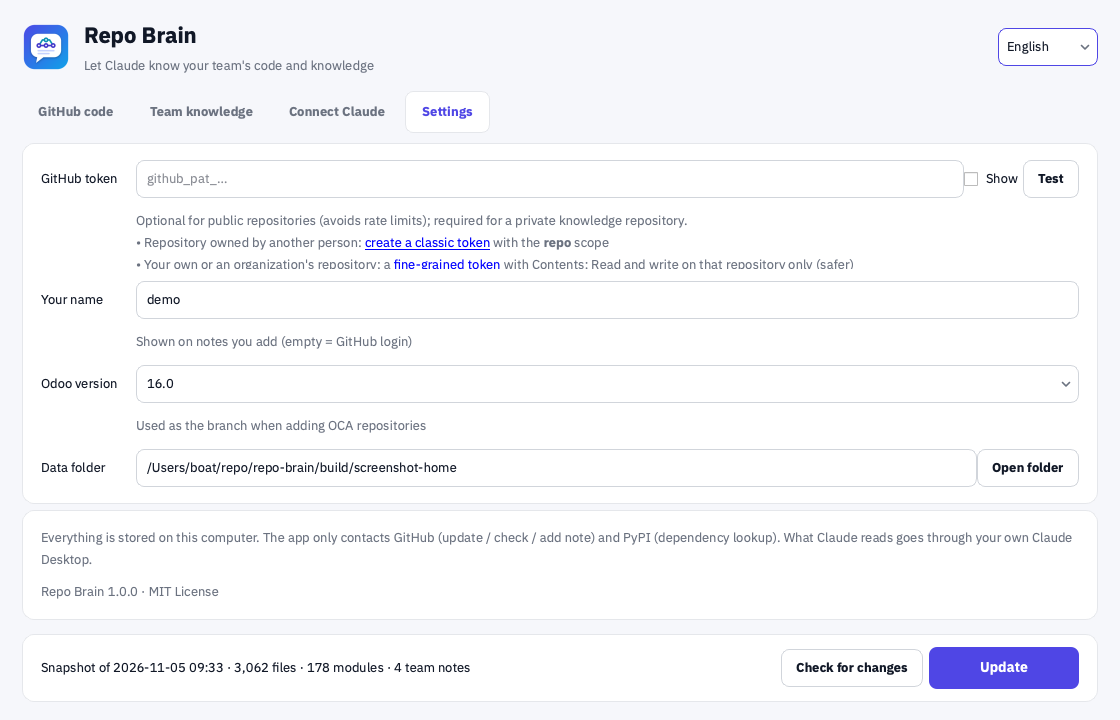
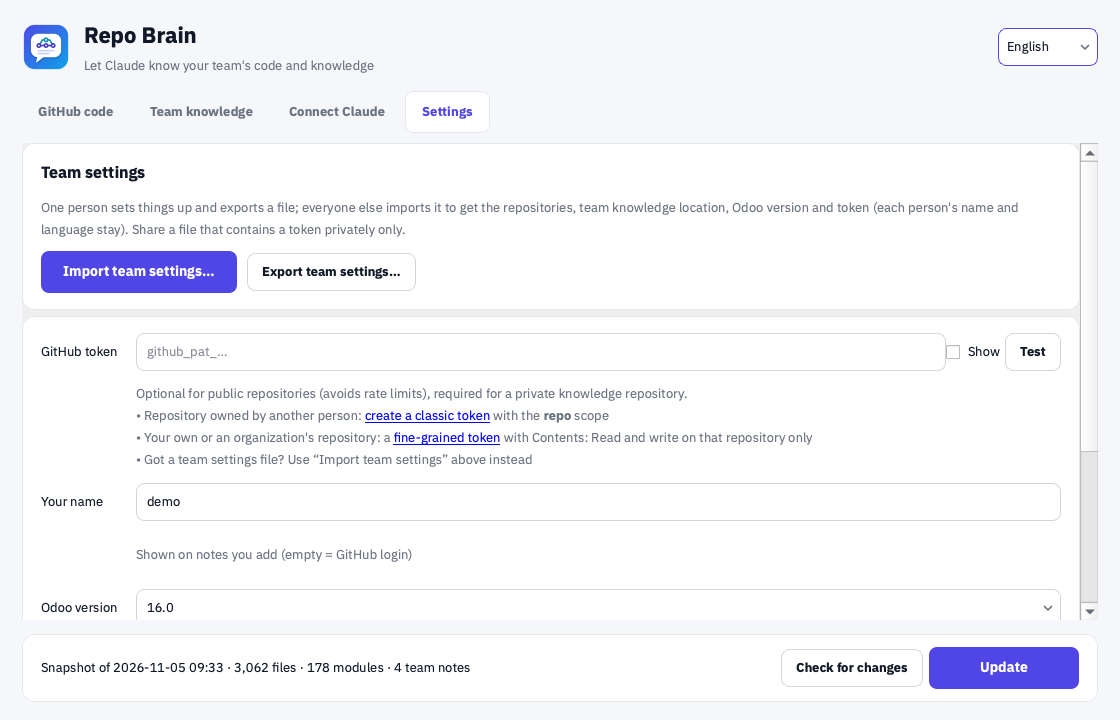
Add team settings export and import

Changed region(s): [[0.0312, 0.2139, 0.9688, 0.7028], [0.0312, 0.6111, 1.0, 0.8556], [0.0312, 0.6417, 0.0938, 0.7028]]

diff --git a/app/i18n.py b/app/i18n.py
@@ -117,14 +117,14 @@ T = {
                     "<li>Remember for the team: year-end closing must be done before 30 Sep.</li></ul>"),
     # settings
     "st_token": ("GitHub token", "GitHub token"),
-    "st_token_hint": ("ไม่บังคับสำหรับ repo public (แต่ช่วยไม่ให้ติด rate limit) จำเป็นสำหรับ repo ข้อมูลทีมแบบ private<br>"
+    "st_token_hint": ("ไม่บังคับสำหรับ repo public (ช่วยไม่ให้ติด rate limit) แต่จำเป็นสำหรับ repo ข้อมูลทีมแบบ private<br>"
                       "• repo ของบัญชีคนอื่น: <a href='https://github.com/settings/tokens/new?scopes=repo&description=Repo%20Brain'>สร้าง classic token</a> สิทธิ์ <b>repo</b><br>"
                       "• repo ของคุณเองหรือของ organization: <a href='https://github.com/settings/personal-access-tokens/new'>fine-grained token</a> "
-                      "สิทธิ์ Contents: Read and write เฉพาะ repo นั้น (ปลอดภัยกว่า)",
-                      "Optional for public repositories (avoids rate limits); required for a private knowledge repository.<br>"
+                      "สิทธิ์ Contents: Read and write เฉพาะ repo นั้น<br>• ได้ไฟล์ตั้งค่าทีมมา: กด “นำเข้าการตั้งค่าทีม” ด้านบน ไม่ต้องสร้างเอง",
+                      "Optional for public repositories (avoids rate limits), required for a private knowledge repository.<br>"
                       "• Repository owned by another person: <a href='https://github.com/settings/tokens/new?scopes=repo&description=Repo%20Brain'>create a classic token</a> with the <b>repo</b> scope<br>"
                       "• Your own or an organization's repository: a <a href='https://github.com/settings/personal-access-tokens/new'>fine-grained token</a> "
-                      "with Contents: Read and write on that repository only (safer)"),
+                      "with Contents: Read and write on that repository only<br>• Got a team settings file? Use “Import team settings” above instead"),
     "st_show": ("แสดง", "Show"),
     "st_test": ("ทดสอบ", "Test"),
     "st_token_ok": ("ใช้ได้ — เข้าสู่ระบบเป็น {login}", "Works — signed in as {login}"),
@@ -139,6 +139,35 @@ T = {
                    "ส่วนที่ Claude อ่านจะส่งผ่าน Claude Desktop ของคุณเอง",
                    "Everything is stored on this computer. The app only contacts GitHub (update / check / add note) and PyPI "
                    "(dependency lookup). What Claude reads goes through your own Claude Desktop."),
+    # team settings file
+    "team_title": ("การตั้งค่าทีม", "Team settings"),
+    "team_hint": ("คนเดียวตั้งค่าแล้วส่งออกเป็นไฟล์ คนอื่นกดนำเข้าก็ได้รายการ repo, ที่เก็บข้อมูลทีม, เวอร์ชัน Odoo และ token ครบ "
+                  "(ชื่อผู้บันทึกและภาษาของแต่ละคนไม่ถูกเปลี่ยน) ไฟล์ที่มี token ให้ส่งทางช่องทางส่วนตัวเท่านั้น",
+                  "One person sets things up and exports a file; everyone else imports it to get the repositories, team "
+                  "knowledge location, Odoo version and token (each person's name and language stay). Share a file that "
+                  "contains a token privately only."),
+    "team_import": ("นำเข้าการตั้งค่าทีม…", "Import team settings…"),
+    "team_export": ("ส่งออกการตั้งค่าทีม…", "Export team settings…"),
+    "team_ask_token": ("ใส่ GitHub token ไว้ในไฟล์ด้วยไหม?\n\nใส่: คนในทีมไม่ต้องสร้าง token เอง (ควรใช้ fine-grained token "
+                       "ที่จำกัดเฉพาะ repo ข้อมูลทีม)\nไม่ใส่: แต่ละคนต้องใส่ token ของตัวเอง",
+                       "Include the GitHub token in the file?\n\nYes: teammates don't need their own token (use a fine-grained "
+                       "token limited to the knowledge repository)\nNo: everyone enters their own token"),
+    "team_exported": ("บันทึกแล้ว: {path}", "Saved: {path}"),
+    "team_exported_token": ("บันทึกแล้ว: {path}\n\nไฟล์นี้มี token อยู่ ส่งให้ทีมทางแชทส่วนตัวเท่านั้น "
+                            "อย่าใส่ไว้ใน repo, อีเมลกลุ่มใหญ่ หรือที่สาธารณะ",
+                            "Saved: {path}\n\nThis file contains the token. Send it to the team privately only — "
+                            "never commit it or post it anywhere public."),
+    "team_bad": ("เปิดไฟล์ไม่ได้: {err}", "Cannot open the file: {err}"),
+    "team_summary": ("จะใช้การตั้งค่าจากไฟล์นี้แทนของเดิม:\n\nRepo:\n{repos}\n\nข้อมูลทีม: {knowledge}\nOdoo: {odoo}\nToken: {token}\n\nดำเนินการต่อ?",
+                     "Replace your settings with this file:\n\nRepositories:\n{repos}\n\nTeam knowledge: {knowledge}\nOdoo: {odoo}\nToken: {token}\n\nContinue?"),
+    "team_has_token": ("มีในไฟล์", "included"),
+    "team_no_token": ("ไม่มีในไฟล์ (ใช้ของคุณเอง)", "not included (yours is kept)"),
+    "team_imported": ("นำเข้าแล้ว กด “อัปเดตข้อมูล” เพื่อโหลดโค้ดและข้อมูลทีม แล้วไปที่แท็บ “เชื่อมกับ Claude”",
+                      "Imported. Press “Update” to load the code and team notes, then open “Connect Claude”."),
+    "team_need_name": ("กรอก “ชื่อผู้บันทึก” ในหน้าตั้งค่าด้วย เพื่อให้รู้ว่าใครเป็นคนเพิ่มบันทึก",
+                       "Fill in “Your name” in Settings so notes show who added them."),
+    "team_need_folder": ("ข้อมูลทีมเป็นแบบโฟลเดอร์แชร์ ไปที่แท็บ “ข้อมูลทีม” แล้วเลือกโฟลเดอร์ในเครื่องของคุณ",
+                         "Team knowledge uses a shared folder: pick it on your computer in the “Team knowledge” tab."),
     "error": ("เกิดข้อผิดพลาด", "Something went wrong"),
 }
 

diff --git a/app/ui/main_window.py b/app/ui/main_window.py
@@ -15,7 +15,8 @@ from PySide6.QtWidgets import (QAbstractItemView, QApplication, QButtonGroup, QC
                                QTableWidgetItem, QTabWidget, QTextBrowser, QVBoxLayout, QWidget)
 
 from .. import claude_connect
-from ..config import APP_NAME, VERSION, Source, data_dir, index_path, load_config, save_config
+from ..config import (APP_NAME, TEAM_EXT, VERSION, Source, TeamFileError, apply_team, data_dir, export_team,
+                      index_path, load_config, read_team, save_config)
 from ..github import GitHub, parse_repo
 from ..i18n import language, set_language, tr
 from ..store import Store
@@ -410,9 +411,29 @@ class MainWindow(QMainWindow):
         return page
 
     def _settings_tab(self):
+        outer = QWidget()
+        outer_lay = QVBoxLayout(outer)
+        outer_lay.setContentsMargins(0, 10, 0, 0)
+        scroll = QScrollArea()
+        scroll.setWidgetResizable(True)
+        scroll.setFrameShape(QFrame.NoFrame)
         page = QWidget()
+        scroll.setWidget(page)
+        outer_lay.addWidget(scroll)
         lay = QVBoxLayout(page)
-        lay.setContentsMargins(0, 10, 0, 0)
+        lay.setContentsMargins(0, 0, 0, 0)
+        team = card(label(tr("team_title"), "sectionTitle"), label(tr("team_hint"), "hint"))
+        row = QHBoxLayout()
+        imp = QPushButton(tr("team_import"))
+        imp.setObjectName("primary")
+        imp.clicked.connect(self._import_team)
+        exp = QPushButton(tr("team_export"))
+        exp.clicked.connect(self._export_team)
+        row.addWidget(imp)
+        row.addWidget(exp)
+        row.addStretch(1)
+        team.layout().addLayout(row)
+        lay.addWidget(team)
         form = QFormLayout()
         form.setVerticalSpacing(12)
         form.setHorizontalSpacing(18)
@@ -430,7 +451,7 @@ class MainWindow(QMainWindow):
         tr_row.addWidget(show)
         tr_row.addWidget(test)
         form.addRow(tr("st_token"), tr_row)
-        form.addRow("", label(tr("st_token_hint"), "hint", rich=True))
+        form.addRow("", label(tr("st_token_hint"), "hint", wrap=False, rich=True))  # short lines; wrapping clips in forms
 
         self.author = QLineEdit(self.cfg.author)
         self.author.editingFinished.connect(self._settings_changed)
@@ -458,7 +479,7 @@ class MainWindow(QMainWindow):
         lay.addWidget(box)
         lay.addWidget(card(label(tr("st_privacy"), "hint"), label(f"{APP_NAME} {VERSION} · MIT License", "hint")))
         lay.addStretch(1)
-        return page
+        return outer
 
     # ---- refresh views
     def refresh(self):
@@ -747,6 +768,63 @@ class MainWindow(QMainWindow):
         self.cfg.author = self.author.text().strip()
         self.cfg.odoo_version = self.odoo.currentText().strip() or "16.0"
         save_config(self.cfg)
+
+    def _export_team(self):
+        self._settings_changed()
+        self._knowledge_changed()
+        include = False
+        if self.cfg.github_token:
+            ans = QMessageBox.question(self, tr("team_export"), tr("team_ask_token"),
+                                       QMessageBox.Yes | QMessageBox.No | QMessageBox.Cancel, QMessageBox.Yes)
+            if ans == QMessageBox.Cancel:
+                return
+            include = ans == QMessageBox.Yes
+        path, _ = QFileDialog.getSaveFileName(self, tr("team_export"),
+                                              os.path.join(os.path.expanduser("~"), "team" + TEAM_EXT),
+                                              f"Repo Brain (*{TEAM_EXT})")
+        if not path:
+            return
+        if not path.endswith(TEAM_EXT):
+            path += TEAM_EXT
+        try:
+            export_team(self.cfg, path, include)
+        except OSError as e:
+            QMessageBox.warning(self, tr("error"), str(e))
+            return
+        QMessageBox.information(self, tr("team_export"),
+                                tr("team_exported_token" if include else "team_exported", path=path))
+
+    def _import_team(self, path: str = ""):
+        if not path:
+            path, _ = QFileDialog.getOpenFileName(self, tr("team_import"), os.path.expanduser("~"),
+                                                  f"Repo Brain (*{TEAM_EXT} *.json)")
+        if not path:
+            return
+        try:
+            data = read_team(path)
+        except TeamFileError as e:
+            QMessageBox.warning(self, tr("error"), tr("team_bad", err=str(e)))
+            return
+        new = apply_team(self.cfg, data)
+        repos = "\n".join(f"  • {s.repo} ({s.branch or tr('default_branch')})" for s in new.sources) or "  —"
+        k = new.knowledge
+        kn = {"github": f"GitHub: {k.repo}", "folder": tr("kn_folder"), "none": tr("kn_none")}.get(k.mode, k.mode)
+        summary = tr("team_summary", repos=repos, knowledge=kn, odoo=new.odoo_version,
+                     token=tr("team_has_token") if data.get("github_token") else tr("team_no_token"))
+        if QMessageBox.question(self, tr("team_import"), summary) != QMessageBox.Yes:
+            return
+        self.cfg = new
+        save_config(self.cfg)
+        self.checks = {}
+        self._build()
+        self.tabs.setCurrentIndex(3 if not self.cfg.author else 0)
+        msg = tr("team_imported")
+        if not self.cfg.author:
+            msg += "\n\n" + tr("team_need_name")
+            self.author.setFocus()
+        if k.mode == "folder" and not k.folder:
+            msg += "\n\n" + tr("team_need_folder")
+        QMessageBox.information(self, tr("team_import"), msg)
 
     def _test_token(self):
         self._settings_changed()

diff --git a/app/config.py b/app/config.py
@@ -9,7 +9,7 @@ from dataclasses import asdict, dataclass, field
 APP_NAME = "Repo Brain"
 APP_ID = "RepoBrain"
 MCP_NAME = "repo-brain"
-VERSION = "1.0.1"
+VERSION = "1.0.2"
 
 
 def data_dir() -> str:
@@ -101,3 +101,55 @@ def save_config(cfg: Config) -> None:
     except OSError:
         pass
     os.replace(tmp, path)
+
+
+# ---------------------------------------------------------------- team settings file
+TEAM_FORMAT = "repo-brain-team"
+TEAM_EXT = ".repobrain"
+
+
+class TeamFileError(ValueError):
+    pass
+
+
+def export_team(cfg: Config, path: str, include_token: bool = True) -> None:
+    """Write the settings the whole team shares (repositories, knowledge, Odoo version, optionally the token).
+
+    Personal settings (your name, language) are left out.
+    """
+    data = {"format": TEAM_FORMAT, "version": 1, "app_version": VERSION,
+            "sources": [asdict(s) for s in cfg.sources], "knowledge": asdict(cfg.knowledge),
+            "odoo_version": cfg.odoo_version}
+    if include_token and cfg.github_token:
+        data["github_token"] = cfg.github_token
+    if data["knowledge"].get("mode") == "folder":
+        data["knowledge"]["folder"] = ""  # a local path means nothing on another computer
+    with open(path, "w", encoding="utf-8") as fh:
+        json.dump(data, fh, ensure_ascii=False, indent=2)
+    try:
+        os.chmod(path, 0o600)
+    except OSError:
+        pass
+
+
+def read_team(path: str) -> dict:
+    try:
+        with open(path, encoding="utf-8") as fh:
+            data = json.load(fh)
+    except (OSError, ValueError) as e:
+        raise TeamFileError(f"cannot read the file: {e}") from None
+    if not isinstance(data, dict) or data.get("format") != TEAM_FORMAT:
+        raise TeamFileError("this is not a Repo Brain team settings file")
+    return data
+
+
+def apply_team(cfg: Config, data: dict) -> Config:
+    """Return a copy of cfg with the team settings applied; keeps your name and language,
+    and keeps your own token when the file has none. A folder-mode knowledge path is kept if the file has none."""
+    team = Config.from_json({**data, "author": cfg.author, "language": cfg.language,
+                             "github_token": data.get("github_token") or cfg.github_token})
+    if team.knowledge.mode == "folder" and not team.knowledge.folder and cfg.knowledge.mode == "folder":
+        team.knowledge.folder = cfg.knowledge.folder
+    if not data.get("odoo_version"):
+        team.odoo_version = cfg.odoo_version
+    return team

diff --git a/tests/test_engine.py b/tests/test_engine.py
@@ -326,3 +326,33 @@ def test_config_roundtrip():
     assert cfg.sources[0].branch == "16.0" and cfg.knowledge.folder == "/x" and cfg.language == "en"
     if os.name != "nt":
         assert oct(os.stat(config_path()).st_mode & 0o777) == "0o600"
+
+
+def test_team_settings_roundtrip(tmp_path):
+    from app.config import (Config, Knowledge, Source, TeamFileError, apply_team, export_team, read_team)
+    mine = Config(sources=[Source("me/erp", "16.0"), Source("OCA/web", "16.0")],
+                  knowledge=Knowledge(mode="github", repo="me/notes", subdir="knowledge"),
+                  github_token="github_pat_x", author="Owner", odoo_version="16.0", language="en")
+    path = tmp_path / "team.repobrain"
+    export_team(mine, str(path), include_token=True)
+    data = read_team(str(path))
+    assert data["github_token"] == "github_pat_x" and "author" not in data and "language" not in data
+    if os.name != "nt":
+        assert oct(os.stat(path).st_mode & 0o777) == "0o600"
+
+    friend = Config(author="Friend", language="th", github_token="own")
+    got = apply_team(friend, data)
+    assert [s.repo for s in got.sources] == ["me/erp", "OCA/web"] and got.knowledge.repo == "me/notes"
+    assert got.github_token == "github_pat_x" and got.author == "Friend" and got.language == "th"
+
+    export_team(mine, str(path), include_token=False)
+    data = read_team(str(path))
+    assert "github_token" not in data and apply_team(friend, data).github_token == "own"
+
+    folder = Config(knowledge=Knowledge(mode="folder", folder="/Users/me/Drive/notes"))
+    export_team(folder, str(path))
+    assert read_team(str(path))["knowledge"]["folder"] == ""  # local paths don't travel
+
+    (tmp_path / "x.json").write_text('{"sources": []}')
+    with pytest.raises(TeamFileError):
+        read_team(str(tmp_path / "x.json"))

diff --git a/tests/test_ui.py b/tests/test_ui.py
@@ -49,3 +49,17 @@ def test_connect_claude(win, tmp_path):
     win._connect_claude()
     assert claude_connect.status() == "connected"
     assert "เชื่อมแล้ว" in win.cl_state.text()
+
+
+def test_import_team_file(win, tmp_path, monkeypatch):
+    from PySide6.QtWidgets import QMessageBox
+    from app.config import Config, Knowledge, Source, export_team, load_config
+    path = tmp_path / "team.repobrain"
+    export_team(Config(sources=[Source("me/erp", "16.0")], knowledge=Knowledge(mode="github", repo="me/notes"),
+                       github_token="tok"), str(path))
+    monkeypatch.setattr(QMessageBox, "question", staticmethod(lambda *a, **k: QMessageBox.Yes))
+    monkeypatch.setattr(QMessageBox, "information", staticmethod(lambda *a, **k: None))
+    win._import_team(str(path))
+    cfg = load_config()
+    assert cfg.sources[0].repo == "me/erp" and cfg.knowledge.repo == "me/notes" and cfg.github_token == "tok"
+    assert win.table.rowCount() == 1 and win.tabs.currentIndex() == 3  # asks for the name next

diff --git a/README.md b/README.md
@@ -43,6 +43,7 @@
 | 🔔 **รู้ว่ามีของใหม่** | ปุ่ม **ตรวจหาของใหม่** บอกว่า repo ไหนมี commit ใหม่ โดยไม่โหลดโค้ด Claude เองก็ถามได้ |
 | 🧩 **เข้าใจ Odoo** | รู้ว่า model ถูกสร้างและถูก `_inherit` ที่โมดูลไหน มี field อะไร โมดูลพึ่งโมดูลไหน ค้นป้ายภาษาไทยจาก `th.po` และ view ได้ |
 | 🔗 **หา repo ของ OCA ที่ขาดให้** | อ่าน `depends` แล้วบอกว่าโมดูลที่ขาดอยู่ใน repo ไหนของ OCA ตรงตามเวอร์ชัน Odoo แล้วเพิ่มได้ในคลิกเดียว |
+| 📦 **ตั้งค่าทั้งทีมด้วยไฟล์เดียว** | คนเดียวตั้งค่าแล้วส่งออก คนอื่นนำเข้าไฟล์ `.repobrain` ก็ได้ repo, ข้อมูลทีม และ token ครบ |
 | 👥 **ข้อมูลทีมที่แชร์กัน** | ทุกคนเพิ่มบันทึกได้ เช่น กฎธุรกิจ ขั้นตอนงาน ข้อตกลงของทีม เก็บใน GitHub repo แบบ private หรือโฟลเดอร์แชร์ แล้วทุกคนได้ข้อมูลเมื่อกดอัปเดต |
 | 💬 **บอก Claude ให้จำ** | พิมพ์ใน Claude ว่า “จำไว้ให้ทีมว่า …” แล้วบันทึกจะถูกแชร์ให้ทั้งทีม |
 | 🔑 **ใช้ Claude ของแต่ละคน** | ทำงานเป็น MCP server ของ Claude Desktop จึงใช้บัญชีและโควตาของแต่ละคนเอง ไม่ต้องมี API key กลาง |
@@ -78,6 +79,8 @@ Claude ใช้เครื่องมือเหล่านี้ได้:
 
 ### 🚀 วิธีใช้
 
+> **คนในทีมที่ได้ไฟล์ตั้งค่าทีม (`.repobrain`) มาแล้ว**: ติดตั้งแอป → **ตั้งค่า** → **นำเข้าการตั้งค่าทีม…** → กรอก **ชื่อผู้บันทึก** → กด **อัปเดตข้อมูล** → ไปทำข้อ 4 ได้เลย
+
 1. **เพิ่ม repo**: แท็บ **โค้ดจาก GitHub** กด **เพิ่ม repo** ใส่ `owner/name` หรือ URL ของ GitHub
 2. **กด “อัปเดตข้อมูล”**: ครั้งแรกจะโหลดทั้ง repo (repo ขนาดหลายพันไฟล์ใช้ไม่กี่วินาที) ครั้งต่อไปจะดึงเฉพาะไฟล์ที่เปลี่ยน
 3. **ถ้าเป็น Odoo**: ไปที่ **ตั้งค่า** แล้วเลือกเวอร์ชัน Odoo จากนั้นกด **หา repo ที่โมดูลต้องใช้** เลือก repo ของ OCA ที่ต้องการ แล้วกดอัปเดตอีกครั้ง
@@ -90,7 +93,9 @@ Claude ใช้เครื่องมือเหล่านี้ได้:
      - repo อยู่ใต้บัญชีของคนอื่น: ใช้ [classic token](https://github.com/settings/tokens/new?scopes=repo&description=Repo%20Brain) สิทธิ์ `repo` (fine-grained token ใช้กับ repo ของบัญชีคนอื่นไม่ได้)
      - repo ของคุณเอง หรือ repo ใน organization: ใช้ [fine-grained token](https://github.com/settings/personal-access-tokens/new) สิทธิ์ *Contents: Read and write* เฉพาะ repo นี้ จะปลอดภัยกว่า ถ้าทีมใหญ่ แนะนำให้ย้าย repo ไปไว้ใน organization
    - **โฟลเดอร์แชร์**: ทุกคนเลือกโฟลเดอร์เดียวกันที่ sync ด้วย Google Drive / OneDrive / NAS
-6. **ถามได้เลย** ใน Claude Desktop เช่น
+6. **แจกการตั้งค่าให้ทีม** (คนตั้งค่าทำครั้งเดียว): **ตั้งค่า** → **ส่งออกการตั้งค่าทีม…** จะได้ไฟล์ `.repobrain` ที่มีรายการ repo, ที่เก็บข้อมูลทีม, เวอร์ชัน Odoo และ token (เลือกได้ว่าจะใส่ token ไหม) ส่งไฟล์ให้ทีม**ทางแชทส่วนตัวเท่านั้น** ชื่อผู้บันทึกและภาษาของแต่ละคนจะไม่ถูกเปลี่ยน
+   - ถ้าใส่ token ในไฟล์ ให้ใช้ [fine-grained token](https://github.com/settings/personal-access-tokens/new) ของเจ้าของ repo ที่จำกัดเฉพาะ repo ข้อมูลทีม สิทธิ์ *Contents: Read and write* และตั้งวันหมดอายุ ทุกบันทึกจะ commit ในชื่อเจ้าของ token แต่ในบันทึกยังมีชื่อผู้บันทึกจริง
+7. **ถามได้เลย** ใน Claude Desktop เช่น
    - “model `purchase.request` ถูก inherit ที่โมดูลไหนบ้าง”
    - “field ‘ผู้ขอซื้อ’ อยู่ใน model ไหน”
    - “ใบขอซื้อของเราต้องอนุมัติกี่ขั้น (ดูข้อมูลทีมด้วย)”
@@ -165,6 +170,7 @@ push tag `v1.0.0` แล้ว GitHub Actions จะ build ทั้งสอง
 | 🔔 **Knows when there's news** | **Check for changes** tells you which repositories have new commits without downloading code. Claude can ask too. |
 | 🧩 **Understands Odoo** | Where each model is defined and `_inherit`ed, its fields, module dependencies; Thai labels are searchable via `th.po` and views. |
 | 🔗 **Finds missing OCA repos** | Reads `depends` and tells you which OCA repository ships each missing module for your Odoo version, then adds them in one click. |
+| 📦 **One file sets up the team** | One person exports the setup; everyone else imports the `.repobrain` file and gets the repositories, team knowledge and token. |
 | 👥 **Shared team knowledge** | Everyone can add notes — business rules, procedures, conventions — stored in a private GitHub repository or a shared folder; everyone gets them on Update. |
 | 💬 **Ask Claude to remember** | Say “remember for the team that …” in Claude and the note is shared with the whole team. |
 | 🔑 **Each person's own Claude** | Runs as a Claude Desktop MCP server, so it uses each person's own account and quota — no shared API key. |
@@ -200,6 +206,8 @@ You also need [Claude Desktop](https://claude.ai/download).
 
 ### 🚀 How to use
 
+> **Teammates who received a team settings file (`.repobrain`)**: install the app → **Settings** → **Import team settings…** → fill in **Your name** → press **Update** → continue at step 4.
+
 1. **Add repositories**: on **GitHub code**, press **Add repository** and enter `owner/name` or a GitHub URL.
 2. **Press “Update”**: the first time downloads the whole repository (a few seconds for thousands of files); later updates fetch only changed files.
 3. **For Odoo**: pick your Odoo version in **Settings**, press **Find dependency repos**, tick the OCA repositories you want and update again.
@@ -212,7 +220,9 @@ You also need [Claude Desktop](https://claude.ai/download).
      - Repository owned by someone else's account: use a [classic token](https://github.com/settings/tokens/new?scopes=repo&description=Repo%20Brain) with the `repo` scope (fine-grained tokens can't reach another user's repositories).
      - Your own repository, or one in an organization: use a [fine-grained token](https://github.com/settings/personal-access-tokens/new) with *Contents: Read and write* on that repository only — safer. For a larger team, move the repository into an organization.
    - **Shared folder**: everyone picks the same folder synced with Google Drive / OneDrive / a NAS.
-6. **Ask away** in Claude Desktop, for example
+6. **Share the setup with the team** (done once by whoever set it up): **Settings** → **Export team settings…** saves a `.repobrain` file with the repositories, team knowledge location, Odoo version and, if you choose, the token. Send it to the team **privately only**. Each person's name and language are left unchanged.
+   - If the file includes a token, use the repository owner's [fine-grained token](https://github.com/settings/personal-access-tokens/new) limited to the knowledge repository with *Contents: Read and write* and an expiry date. Notes are committed under the token owner's account, but each note still records who wrote it.
+7. **Ask away** in Claude Desktop, for example
    - “Which modules inherit `purchase.request`?”
    - “Which model has the ‘Requested by’ field?”
    - “How many approval steps does our purchase request need? (check team notes too)”
